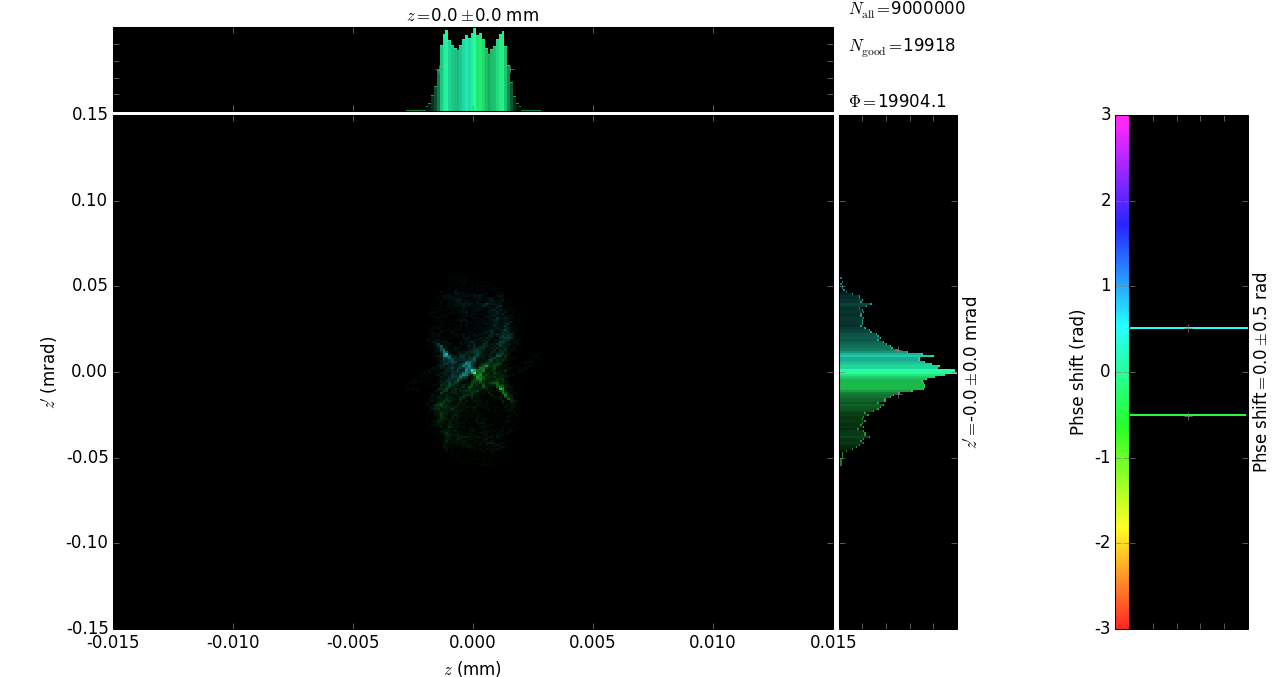
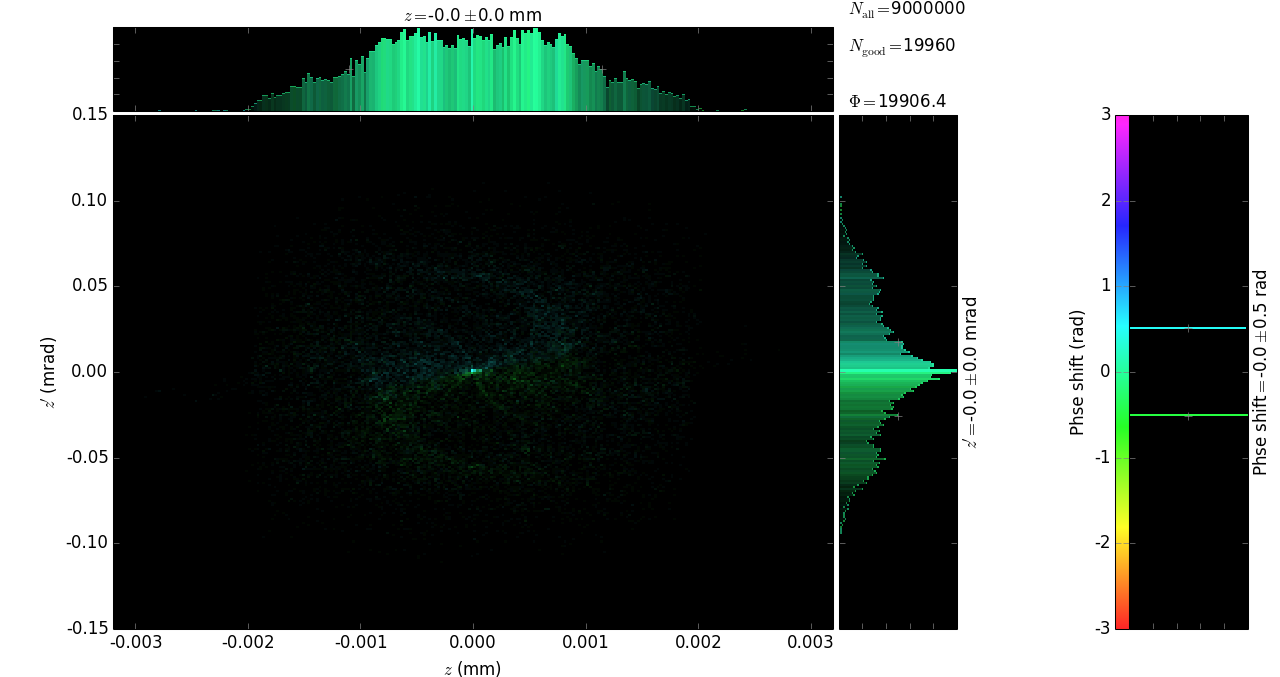
2um radius

diff --git a/simplfiedMonoCapillary.py b/simplfiedMonoCapillary.py
@@ -41,7 +41,7 @@ rOut = 0.002*1
 wall = 0.0005
 
 # parameters for local_x0 function for actual shape definition
-y_in    = 0.01              # entrance height
+y_in    = 0.04              # entrance height
 rS      = float(rSample)    # light source - capillary distance 
 # Cosh parameter for tangential ray entrance
 a_      = -200.0/np.arcsinh(-y_in/rS)
@@ -50,7 +50,7 @@ print a_, y_in/rS
 # image acquisition
 screen1_pos = rSample + 100     # not really used
 screen2_pos = f + 1             # first image position outside capillary
-max_plots = 10                  # for imaging different position at once
+max_plots = 0                   # for imaging different position at once| 0=off
 
 # Pickle saving: None for no saving
 persistentName=None #'phase_space__energy.pickle'
@@ -190,10 +190,10 @@ def main():
     beamLine = build_beamline()
     plots = []
 
-    xLimits = [-0.015, 0.015]
+    xLimits = [y_in-0.005, y_in+0.005]
     xpLimits = [-0.15, 0.15]
-    zLimits = xLimits
-#    zLimits = [-r0*1.6, 1.6*r0]
+#    zLimits = xLimits
+    zLimits = [-r0*1.6, 1.6*r0]
 #    yLimits=None
     cLimits = [-3,3] #[8900,9100]
     # at the entrance
